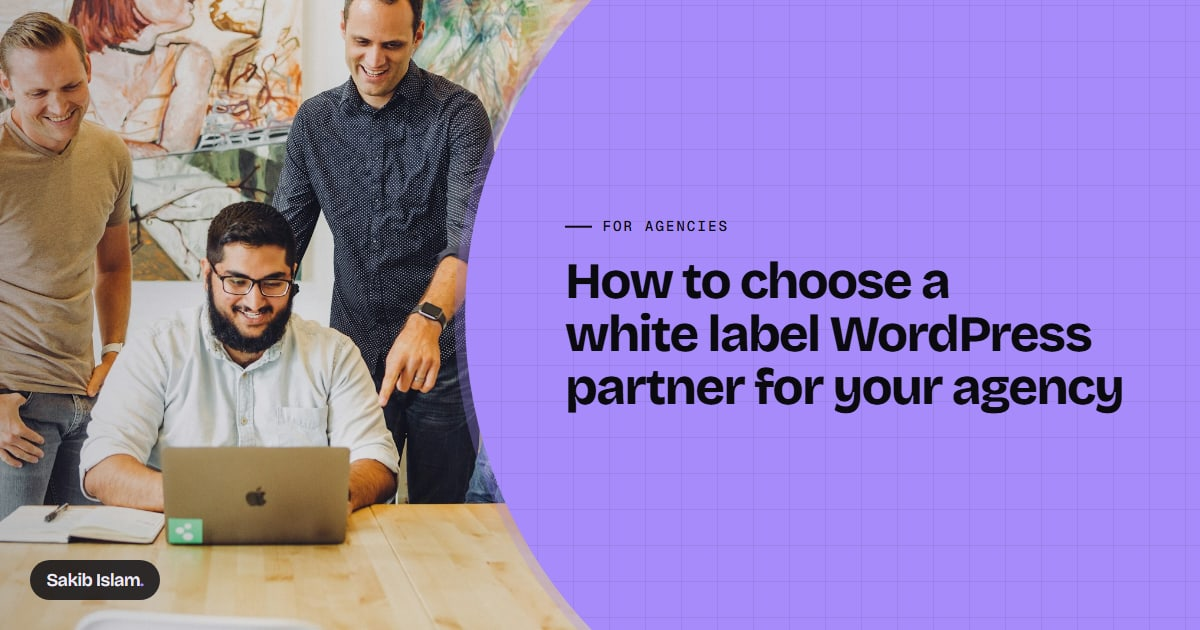
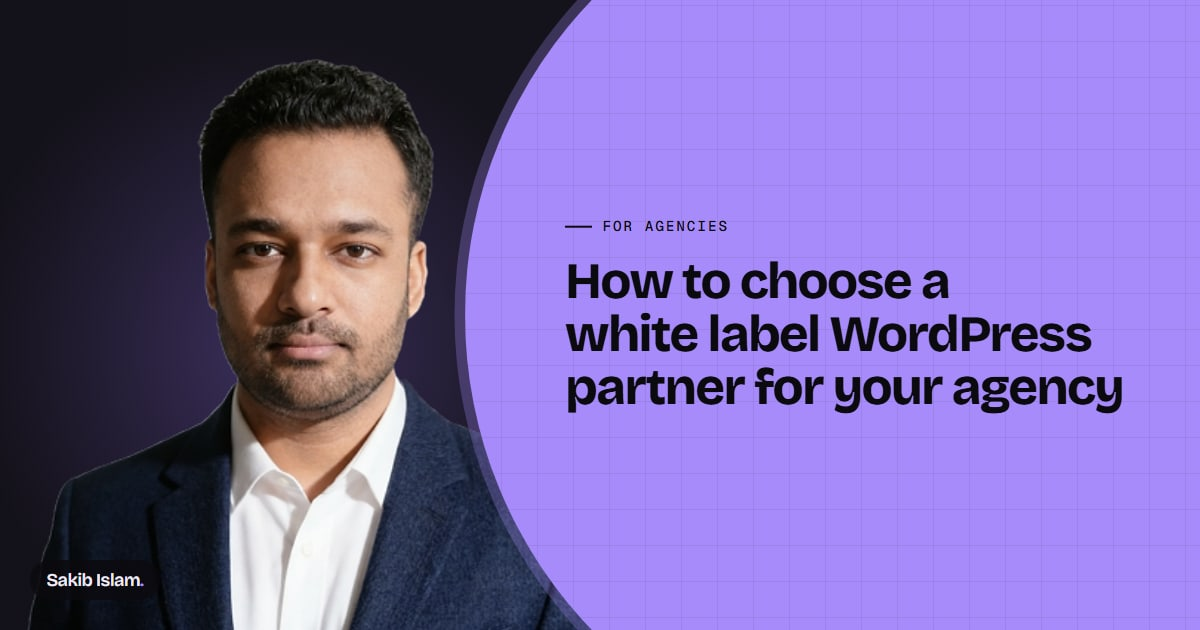
Real photos on home path tiles and agency/maintenance heroes; Sakib's portrait on the white-label cover

diff --git a/src/styles/pages.css b/src/styles/pages.css
@@ -21,7 +21,7 @@
 .browser { background: var(--surface); border: 1px solid var(--line); border-radius: 8px; overflow: hidden; }
 .browser-bar { display: flex; align-items: center; gap: 6px; height: 28px; padding: 0 10px; border-bottom: 1px solid var(--line); }
 .browser-bar i { width: 8px; height: 8px; border-radius: 50%; background: var(--line-2); }
-.browser-bar span { font-family: var(--mono); font-size: 0.6875rem; color: var(--muted); margin-left: 8px; }
+.browser-bar span { font-family: var(--mono); font-size: 0.6875rem; color: var(--muted); margin-left: 8px; min-width: 0; overflow: hidden; text-overflow: ellipsis; white-space: nowrap; }
 .browser img { display: block; width: 100%; height: auto; aspect-ratio: 16 / 10; object-fit: cover; object-position: top; }
 
 /* Home hero: copy on the left; on the right the portrait stands on a panel, one site overlaps its corner */
@@ -207,6 +207,12 @@ a.tile:hover { border-color: var(--accent); color: var(--text); }
 .p-copy .lead { max-width: none; }
 
 /* Agency page */
+.p-photo { display: grid; }
+.p-photo > picture img, .p-photo > img { display: block; width: 100%; height: auto; aspect-ratio: 16 / 11; object-fit: cover; border-radius: 14px; border: 1px solid var(--line); }
+/* The diagram sits on a dark card overlapping the photo's lower edge. */
+.p-photo > .flow, .p-photo > .month { position: relative; margin: -6rem 1.25rem 0; padding: 1rem; background: rgb(11 10 15 / 0.9); backdrop-filter: blur(10px); border: 1px solid var(--line); border-radius: 12px; box-shadow: 0 30px 60px rgb(0 0 0 / 0.5); }
+.p-photo .flow .wire, .p-photo .flow .stg, .p-photo .flow .browser img { aspect-ratio: 1 / 1; }
+img.tile-img { display: block; width: calc(100% + 3.5rem); max-width: none; margin: -1.75rem -1.75rem 0; height: 210px; object-fit: cover; border-bottom: 1px solid var(--line); border-radius: 10px 10px 0 0; }
 .flow { display: grid; grid-template-columns: minmax(0, 1fr) 36px minmax(0, 1fr) 36px minmax(0, 1.2fr); align-items: center; gap: 0.6rem; }
 .flow figure { margin: 0; display: grid; gap: 0.5rem; }
 .flow figcaption { font-family: var(--mono); font-size: 0.75rem; color: var(--muted); }

diff --git a/src/blog/choosing-a-white-label-wordpress-partner.md b/src/blog/choosing-a-white-label-wordpress-partner.md
@@ -4,9 +4,10 @@ seoTitle: "How to Choose a White Label WordPress Partner"
 description: "How to choose a white label WordPress partner: what to check before the first project, the questions to ask, and the warning signs agencies miss."
 focus: white label WordPress partner
 date: "2026-10-15"
+photo: sakib
 topic: For agencies
 service: white-label-wordpress-development
-imageAlt: "Agency team smiling around a laptop, beside the title How to choose a white label WordPress partner for your agency"
+imageAlt: "Portrait of Sakib Islam, white label WordPress developer, beside the title How to choose a white label WordPress partner for your agency"
 stats:
   - { value: "39.7%", label: "of all websites run WordPress", source: "W3Techs, 15 Oct 2026", url: "https://w3techs.com/technologies/details/cm-wordpress" }
   - { value: "58.5%", label: "of websites with a known CMS use WordPress", source: "W3Techs, 15 Oct 2026", url: "https://w3techs.com/technologies/details/cm-wordpress" }

diff --git a/scripts/photos/CREDITS.md b/scripts/photos/CREDITS.md
@@ -10,7 +10,6 @@ Photos from Unsplash under the Unsplash License (free for commercial use, no att
 - wordpress-core-web-vitals.jpg: https://unsplash.com/photos/eL4xIEuHzzk
 - cost-to-hire-a-wordpress-developer.jpg: https://unsplash.com/photos/IY4uQgwwun0
 - woocommerce-checkout-not-working.jpg: https://unsplash.com/photos/1JnN9QhmTGU
-- choosing-a-white-label-wordpress-partner.jpg: https://unsplash.com/photos/Of_m3hMsoAA
 - figma-to-wordpress-handoff.jpg: https://unsplash.com/photos/kSBWIerVYJs
 - what-wordpress-maintenance-includes.jpg: https://unsplash.com/photos/wqtDizNUOrM
 - too-many-wordpress-cache-plugins.jpg: https://unsplash.com/photos/Xn3D8DIzH7Q
